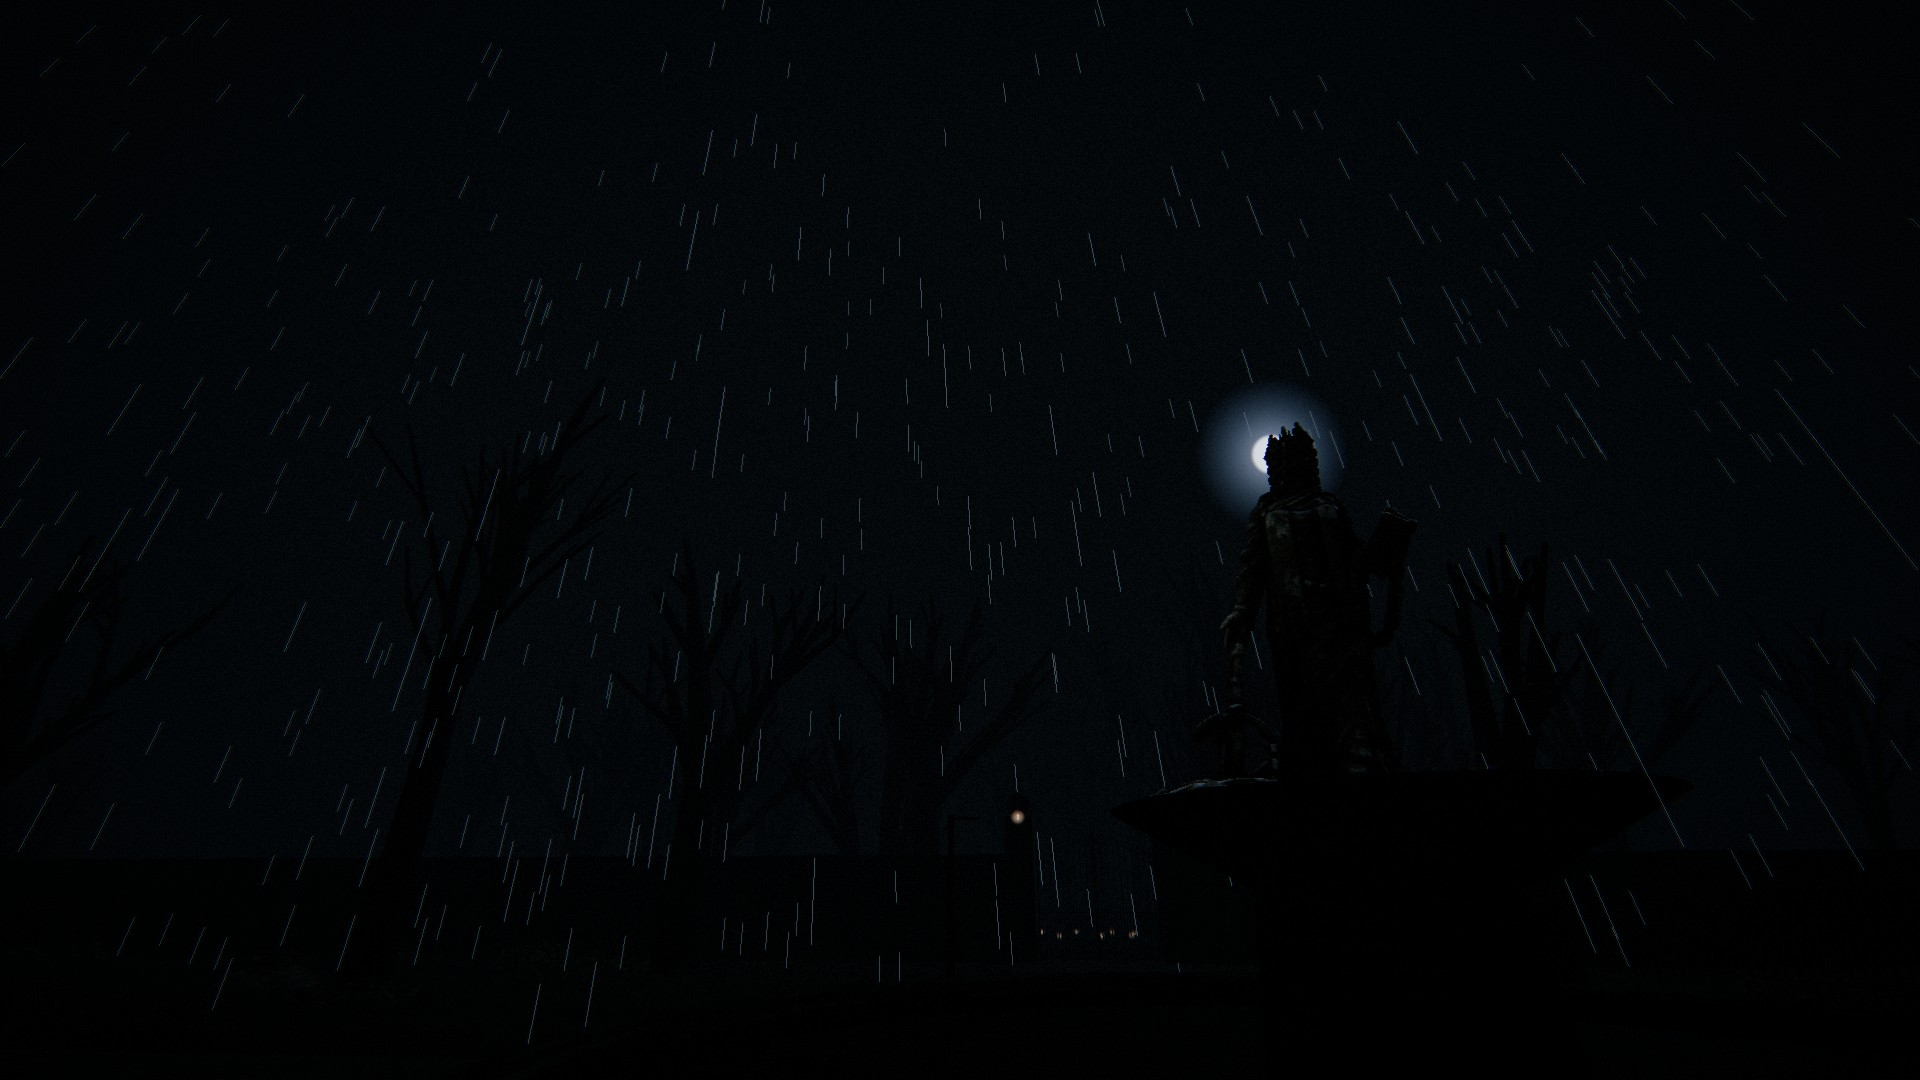
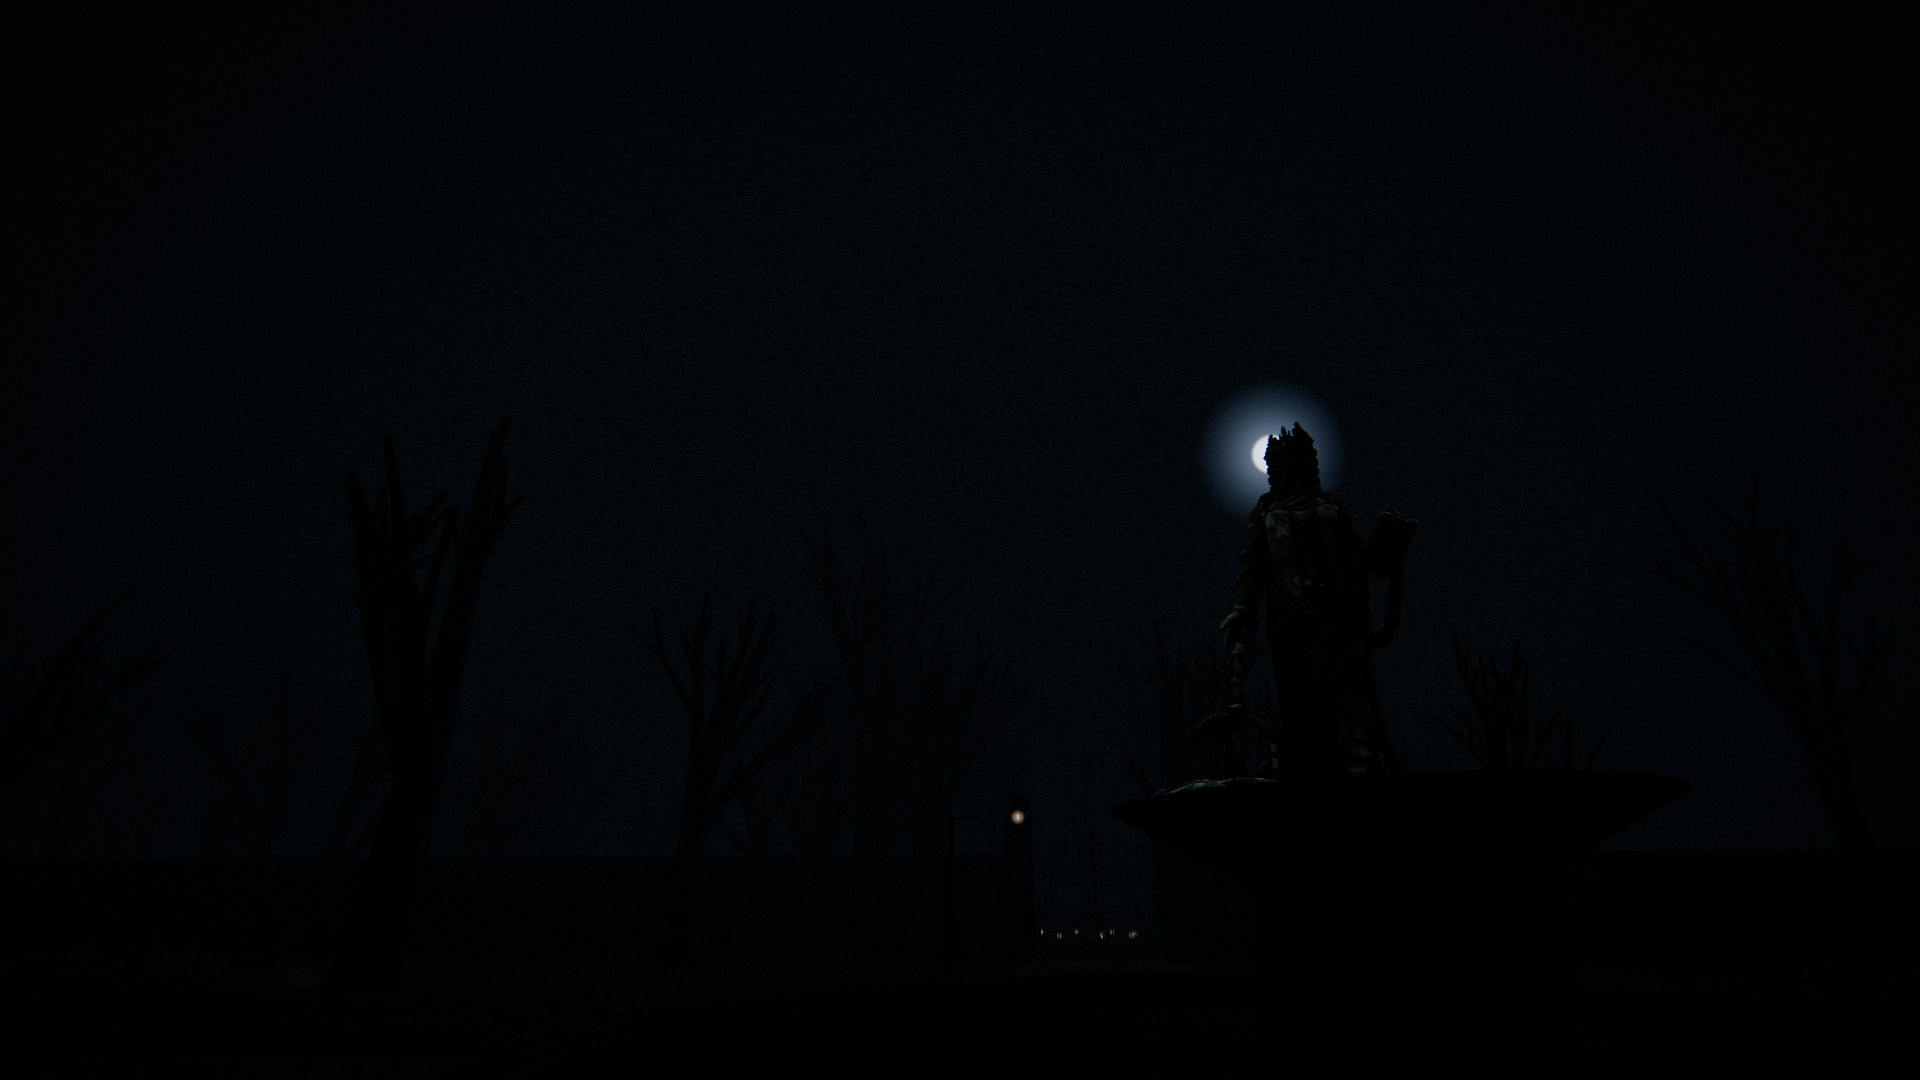
Menu: fits one screen, keycap controls panel, rain-free backgrounds

diff --git a/index.html b/index.html
@@ -70,10 +70,21 @@
   @keyframes m-grain { 25% { background-position: 40px -30px; } 50% { background-position: -60px 20px; } 75% { background-position: 20px 50px; } }
   #start .vig { background: linear-gradient(270deg, transparent 32%, rgba(3,2,3,.5) 55%, rgba(3,2,3,.84)), radial-gradient(ellipse at 62% 45%, transparent 40%, rgba(0,0,0,.75)); }
   #start .white { background: #dfe6ff; opacity: 0; mix-blend-mode: screen; }
-  #start .menu { position: relative; z-index: 2; width: min(590px, 92vw); margin-left: max(5vw, 16px); text-align: left; }
+  #start .menu { position: relative; z-index: 2; width: min(1000px, 66vw); margin-left: max(4.5vw, 16px); text-align: left; transform-origin: left center; }
+  #start .panels { display: flex; align-items: stretch; gap: 16px; margin-top: 3.2vh; }
+  #start .panels .file { margin-top: 0; flex: 1 1 0; min-width: 0; }
+  #start .keys2 { flex: 0 0 auto; display: grid; grid-template-columns: auto auto; column-gap: 18px; align-content: start; padding: 1.6vh 18px 1.4vh; background: linear-gradient(90deg, rgba(10,6,7,.82), rgba(10,6,7,.6)); border-left: 3px solid #a10f17; box-shadow: 0 10px 40px rgba(0,0,0,.6); backdrop-filter: blur(3px);
+    opacity: 0; transform: translateY(10px); transition: opacity .7s 1.2s, transform .7s 1.2s; }
+  #start.show .keys2 { opacity: 1; transform: none; }
+  #start .keys2 .fh { grid-column: 1 / -1; }
+  #start .kr { display: grid; grid-template-columns: 86px auto; align-items: center; gap: 10px; font: 500 clamp(12px, 1.6vh, 15px) "IBM Plex Sans", sans-serif; color: #cfc6b8; margin: .55vh 0; }
+  #start .kr span { display: flex; gap: 4px; justify-content: flex-end; align-items: center; }
+  #start .kr i { font-style: normal; color: #6f6458; }
+  #start .keys2 kbd { min-width: 26px; height: clamp(22px, 2.9vh, 28px); padding: 0 7px; display: inline-grid; place-items: center; box-sizing: border-box; font: 700 11px "JetBrains Mono", monospace; color: #f1e8da;
+    background: linear-gradient(#2d2729, #151113); border: 1px solid rgba(255,255,255,.22); border-bottom: 3px solid rgba(0,0,0,.85); border-radius: 6px; box-shadow: 0 2px 6px rgba(0,0,0,.6); }
   #start .ttl { line-height: .9; opacity: 0; }
-  #start .t1 { display: block; font: 800 clamp(30px, 3.6vw, 54px) Cinzel, serif; letter-spacing: .22em; color: #e9dfcf; text-shadow: 0 2px 18px rgba(0,0,0,.9); }
-  #start .t2 { position: relative; display: block; font: 800 clamp(84px, 10.5vw, 168px) Cinzel, serif; letter-spacing: .06em; margin-left: -.04em; color: transparent;
+  #start .t1 { display: block; font: 800 clamp(24px, min(3.6vw, 5.4vh), 54px) Cinzel, serif; letter-spacing: .22em; color: #e9dfcf; text-shadow: 0 2px 18px rgba(0,0,0,.9); }
+  #start .t2 { position: relative; display: block; font: 800 clamp(64px, min(10.5vw, 16vh), 168px) Cinzel, serif; letter-spacing: .06em; margin-left: -.04em; color: transparent;
     background: linear-gradient(180deg, #d01822 0%, #9a0d15 55%, #4e0408 100%); -webkit-background-clip: text; background-clip: text; filter: drop-shadow(0 0 22px rgba(190,10,22,.45)) drop-shadow(0 6px 24px rgba(0,0,0,.9)); }
   #start .t2::before, #start .t2::after { content: attr(data-t); position: absolute; inset: 0; opacity: 0; }
   #start .t2::before { color: rgba(0,190,255,.5); }
@@ -84,13 +95,13 @@
   @keyframes m-flicker { 0% { opacity: 1; } 8% { opacity: 0; } 14% { opacity: .9; } 22% { opacity: .1; } 30% { opacity: 1; } 52% { opacity: .55; } 58%, 100% { opacity: 1; } }
   @keyframes m-glitchA { 0% { opacity: 1; transform: translate(-6px, 2px); clip-path: inset(10% 0 55% 0); } 2% { transform: translate(5px, -1px); clip-path: inset(60% 0 8% 0); } 4%, 100% { opacity: 0; transform: none; } }
   @keyframes m-glitchB { 0% { opacity: 1; transform: translate(6px, -2px); clip-path: inset(40% 0 30% 0); } 2.4% { transform: translate(-4px, 1px); clip-path: inset(5% 0 70% 0); } 4.6%, 100% { opacity: 0; transform: none; } }
-  #start .sub { display: flex; align-items: center; gap: 14px; margin: 14px 0 0 4px; font: 700 clamp(13px, 1.25vw, 17px) Cinzel, serif; letter-spacing: .5em; color: #cbbfae; opacity: 0; transition: opacity 1s .5s; }
+  #start .sub { display: flex; align-items: center; gap: 14px; margin: 1.4vh 0 0 4px; font: 700 clamp(13px, 1.25vw, 17px) Cinzel, serif; letter-spacing: .5em; color: #cbbfae; opacity: 0; transition: opacity 1s .5s; }
   #start .sub i { width: 54px; height: 2px; background: #a10f17; box-shadow: 0 0 10px #a10f17; }
   #start.lit .sub { opacity: 1; }
-  #start .file { margin-top: 26px; padding: 16px 20px 14px 22px; background: linear-gradient(90deg, rgba(10,6,7,.82), rgba(10,6,7,.58)); border-left: 3px solid #a10f17; box-shadow: 0 10px 40px rgba(0,0,0,.6); backdrop-filter: blur(3px); opacity: 0; transform: translateY(10px); transition: opacity .7s, transform .7s; }
+  #start .file { margin-top: 26px; padding: 1.6vh 20px 1.4vh 22px; background: linear-gradient(90deg, rgba(10,6,7,.82), rgba(10,6,7,.58)); border-left: 3px solid #a10f17; box-shadow: 0 10px 40px rgba(0,0,0,.6); backdrop-filter: blur(3px); opacity: 0; transform: translateY(10px); transition: opacity .7s, transform .7s; }
   #start .fh { font: 700 12px "JetBrains Mono", monospace; letter-spacing: .45em; color: #c4232c; margin-bottom: 10px; }
-  #start .file ol { list-style: none; margin: 0; padding: 0; display: grid; gap: 9px; }
-  #start .file li { display: grid; grid-template-columns: 34px 1fr; align-items: baseline; font: 400 clamp(14px, 1.15vw, 16.5px)/1.45 "IBM Plex Sans", sans-serif; color: #cfc6b8; opacity: 0; transform: translateX(-14px); transition: opacity .5s, transform .5s; }
+  #start .file ol { list-style: none; margin: 0; padding: 0; display: grid; gap: 1.1vh; }
+  #start .file li { display: grid; grid-template-columns: 34px 1fr; align-items: baseline; font: 400 clamp(13px, min(1.15vw, 1.9vh), 16.5px)/1.42 "IBM Plex Sans", sans-serif; color: #cfc6b8; opacity: 0; transform: translateX(-14px); transition: opacity .5s, transform .5s; }
   #start .file li b { font: 700 13px "JetBrains Mono", monospace; color: #8f1a20; }
   #start .file em { font-style: normal; font-weight: 600; color: #f4ece0; }
   #start .file em.r { color: #ff4b52; } #start .file em.y { color: #e8b84a; } #start .file em.g { color: #6fd07c; }
@@ -101,10 +112,10 @@
   #start.show .file li:nth-child(4) { transition-delay: 1.5s; } #start.show .file li:nth-child(5) { transition-delay: 1.9s; }
   #start .controls { justify-content: flex-start; margin-top: 16px; font-size: 12px; opacity: 0; transition: opacity 1s 2.3s; }
   #start.show .controls { opacity: .85; }
-  #start #load { margin-top: 22px; font: 700 14px "JetBrains Mono", monospace; letter-spacing: .4em; color: #8d8274; }
+  #start #load { margin-top: 3vh; font: 700 14px "JetBrains Mono", monospace; letter-spacing: .4em; color: #8d8274; }
   #start #load.ready { color: #e9dfcf; animation: m-enter 2.2s ease-in-out infinite; }
   @keyframes m-enter { 0%, 100% { opacity: 1; text-shadow: 0 0 14px rgba(200,20,30,.8); } 50% { opacity: .35; text-shadow: none; } 52% { opacity: .9; } 54% { opacity: .35; } }
-  @media (max-width: 900px) { #start { place-items: center; } #start .menu { margin: 0 auto; } #start .vig { background: rgba(3,2,3,.6); } }
+  @media (max-width: 900px) { #start { place-items: center; } #start .menu { margin: 0 auto; width: 92vw; } #start .panels { flex-direction: column; } #start .vig { background: rgba(3,2,3,.6); } }
   .screen h1 { font: 800 clamp(48px, 8vw, 110px)/.9 Cinzel, serif; margin: 0; letter-spacing: 4px; }
   .screen h1 span { color: var(--gold); }
   .screen p { font-size: 18px; color: #c9bfae; max-width: 680px; margin: 18px auto 0; line-height: 1.6; padding: 0 16px; }
@@ -133,6 +144,7 @@
   <div class="menu">
     <div class="ttl"><span class="t1">DEPTH FIRST</span><span class="t2" data-t="FEAR">FEAR</span></div>
     <div class="sub"><i></i>THE MANSION</div>
+    <div class="panels">
     <div class="file">
       <div class="fh">SURVIVAL RULES</div>
       <ol>
@@ -143,7 +155,19 @@
         <li><b>05</b><span>Never look into <em class="r">her eyes</em>. Busted <em class="r">−3</em>. Card time runs out <em class="r">−3</em>.</span></li>
       </ol>
     </div>
-    <div class="controls"><span><kbd>W A S D</kbd>move</span><span><kbd>Mouse</kbd>look</span><span><kbd>Shift</kbd>run</span><span><kbd>E</kbd>open / close</span><span><kbd>C</kbd>grab card</span><span><kbd>E</kbd>/<kbd>Q</kbd>take / drop</span><span><kbd>Space</kbd>jump</span><span><kbd>F</kbd>flashlight</span></div>
+    <div class="keys2">
+      <div class="fh">CONTROLS</div>
+      <div class="kr"><span><kbd>W</kbd><kbd>A</kbd><kbd>S</kbd><kbd>D</kbd></span>Move</div>
+      <div class="kr"><span><kbd>MOUSE</kbd></span>Look</div>
+      <div class="kr"><span><kbd>SHIFT</kbd></span>Run</div>
+      <div class="kr"><span><kbd>SPACE</kbd></span>Jump</div>
+      <div class="kr"><span><kbd>E</kbd></span>Open / close</div>
+      <div class="kr"><span><kbd>C</kbd></span>Grab card</div>
+      <div class="kr"><span><kbd>E</kbd><i>/</i><kbd>Q</kbd></span>Take / drop</div>
+      <div class="kr"><span><kbd>F</kbd></span>Flashlight</div>
+      <div class="kr"><span><kbd>ESC</kbd></span>Pause</div>
+    </div>
+    </div>
     <div id="load">LOADING THE MANSION… 0%</div>
   </div>
 </div>
@@ -159,6 +183,9 @@
     bg.classList.remove("shake"); void bg.offsetWidth; bg.classList.add("shake"); };
   const loop = () => { if (st.hidden) return; strike(); setTimeout(loop, 5200 + Math.random() * 6500); };
   setTimeout(() => { strike(); st.classList.add("lit"); setTimeout(() => { st.classList.add("show"); setTimeout(() => done = true, 2600); }, 1300); setTimeout(loop, 6000); }, 1100);
+  // never needs scrolling: shrink the whole menu if the screen is short
+  const menu = st.querySelector(".menu"), fit = () => { menu.style.transform = "none"; const h = menu.offsetHeight, w = menu.offsetWidth, k = Math.min(1, innerHeight * .94 / h, innerWidth * .96 / (w + 40)); menu.style.transform = k < 1 ? `scale(${k})` : "none"; };
+  fit(); addEventListener("resize", fit); document.fonts && document.fonts.ready.then(fit);
   // rain streaks
   const cv = st.querySelector(".rain"), g = cv.getContext("2d"), drops = [];
   const size = () => { cv.width = innerWidth; cv.height = innerHeight; }; size(); addEventListener("resize", size);
